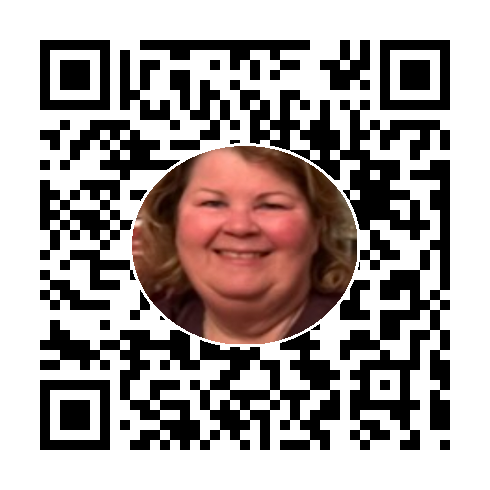
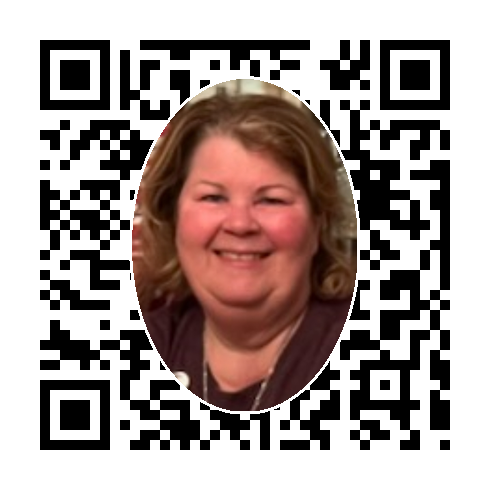
Attempted change to Cheri.png

Changed region(s): [[0.2449, 0.1531, 0.7347, 0.4898], [0.2449, 0.5204, 0.7347, 0.8571], [0.5204, 0.5204, 0.551, 0.551]]

diff --git a/scripts/generate_qr_overlay.py b/scripts/generate_qr_overlay.py
@@ -56,20 +56,30 @@ def main():
     ap.add_argument('--out', required=True)
     ap.add_argument('--pct', type=int, default=40, help='overlay width as % of QR width')
     ap.add_argument('--border', type=int, default=3, help='white border thickness around circle')
-    ap.add_argument('--height-ratio', type=float, default=1.0, dest='height_ratio', help='oval height/width ratio (1.0=circle)')
+    ap.add_argument('--height-ratio', type=float, default=1.0, dest='height_ratio', help='oval height/width ratio (1.0=circle, <=0 to auto from image)')
+    ap.add_argument('--keep-aspect', action='store_true', help='use headshot original aspect ratio (skip square crop)')
     ap.add_argument('--box-size', type=int, default=10, dest='box_size')
     ap.add_argument('--border-mod', type=int, default=4, dest='border_mod', help='QR quiet-zone modules')
     args = ap.parse_args()
 
     qr = make_qr(args.url, box_size=args.box_size, border=args.border_mod)
     head = Image.open(args.headshot).convert("RGBA")
-    # center-crop to square
-    s = min(head.width, head.height)
-    left = (head.width - s)//2
-    top = (head.height - s)//2
-    head_sq = head.crop((left, top, left+s, top+s))
 
-    out = overlay_oval_center(qr, head_sq, pct=args.pct, border_px=args.border, height_ratio=args.height_ratio)
+    if args.keep_aspect:
+      src = head
+    else:
+      # center-crop to square
+      s = min(head.width, head.height)
+      left = (head.width - s)//2
+      top = (head.height - s)//2
+      src = head.crop((left, top, left+s, top+s))
+
+    hr = args.height_ratio
+    if hr <= 0:
+      # auto height ratio from source image
+      hr = max(1e-3, src.height / float(src.width))
+
+    out = overlay_oval_center(qr, src, pct=args.pct, border_px=args.border, height_ratio=hr)
     out.save(args.out)
     print(f"Wrote {args.out}")
 
